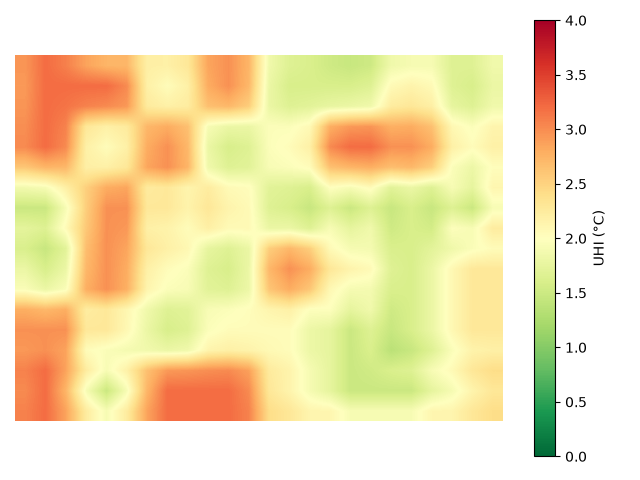
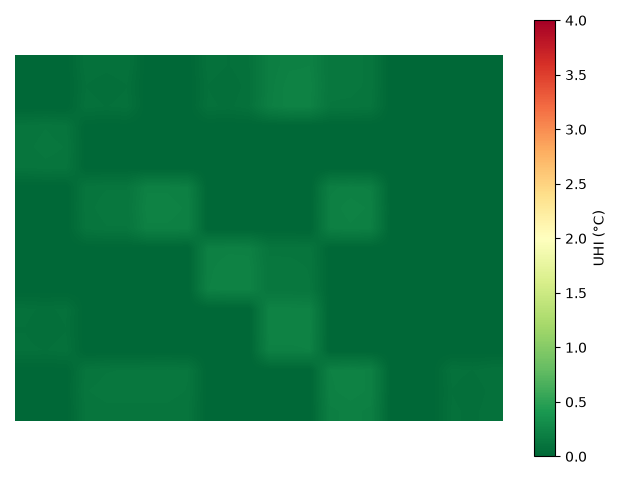
Fixed monthly deaths

diff --git a/PythonProject2/main.py b/PythonProject2/main.py
@@ -26,28 +26,32 @@ state_lock = threading.Lock()
 @app.route('/input', methods=['POST'])
 def receive_data():
     data = request.get_json()
+    if not isinstance(data, dict):
+        return jsonify({"status": "error", "message": "Expected JSON object"}), 400
+
     print(data)
-    try: # Try for tile data
+
+    if 'tile_id' in data and 'tile_type' in data:
         tile_id = data.get('tile_id')
         tile_type = data.get('tile_type')
         with state_lock:
             state["tile_type"] = tile_type
             state["tile_id"] = tile_id
         return jsonify({"status": "ok"})
-    except: pass
-    try:# Else, try for city data
+
+    if 'city_location' in data:
         city_id = data.get('city_location')
         with state_lock:
             state["city_update"] = city_id
         return jsonify({"status": "ok"})
-    except: pass
-    try:# Else, try for month data
+
+    if 'month' in data:
         month = data.get('month')
         with state_lock:
             state["month_update"] = month
         return jsonify({"status": "ok"})
-    except Exception as e:
-        return jsonify({"status": "error", "message": str(e)}), 400
+
+    return jsonify({"status": "error", "message": "Unknown payload shape"}), 400
 
 def main():
     tile_manager = TileManager()

diff --git a/PythonProject2/SubTile.py b/PythonProject2/SubTile.py
@@ -12,10 +12,10 @@ class Subtile:
         self.soil_sealing = 0
         if type == "built_low" or type == "built_low_char": 
             self.population = 7
-            self.soil_sealing = 0.128
+            self.soil_sealing = 0.0127
         if type == "built_high" or type == "built_high_char" or type == "appartment_char": 
             self.population = 10
-            self.soil_sealing = 0.128
+            self.soil_sealing = 0.0127
 
     def get_total_subtile(self, tile_pos):
         s_amount = int(math.sqrt(subtile_amount))